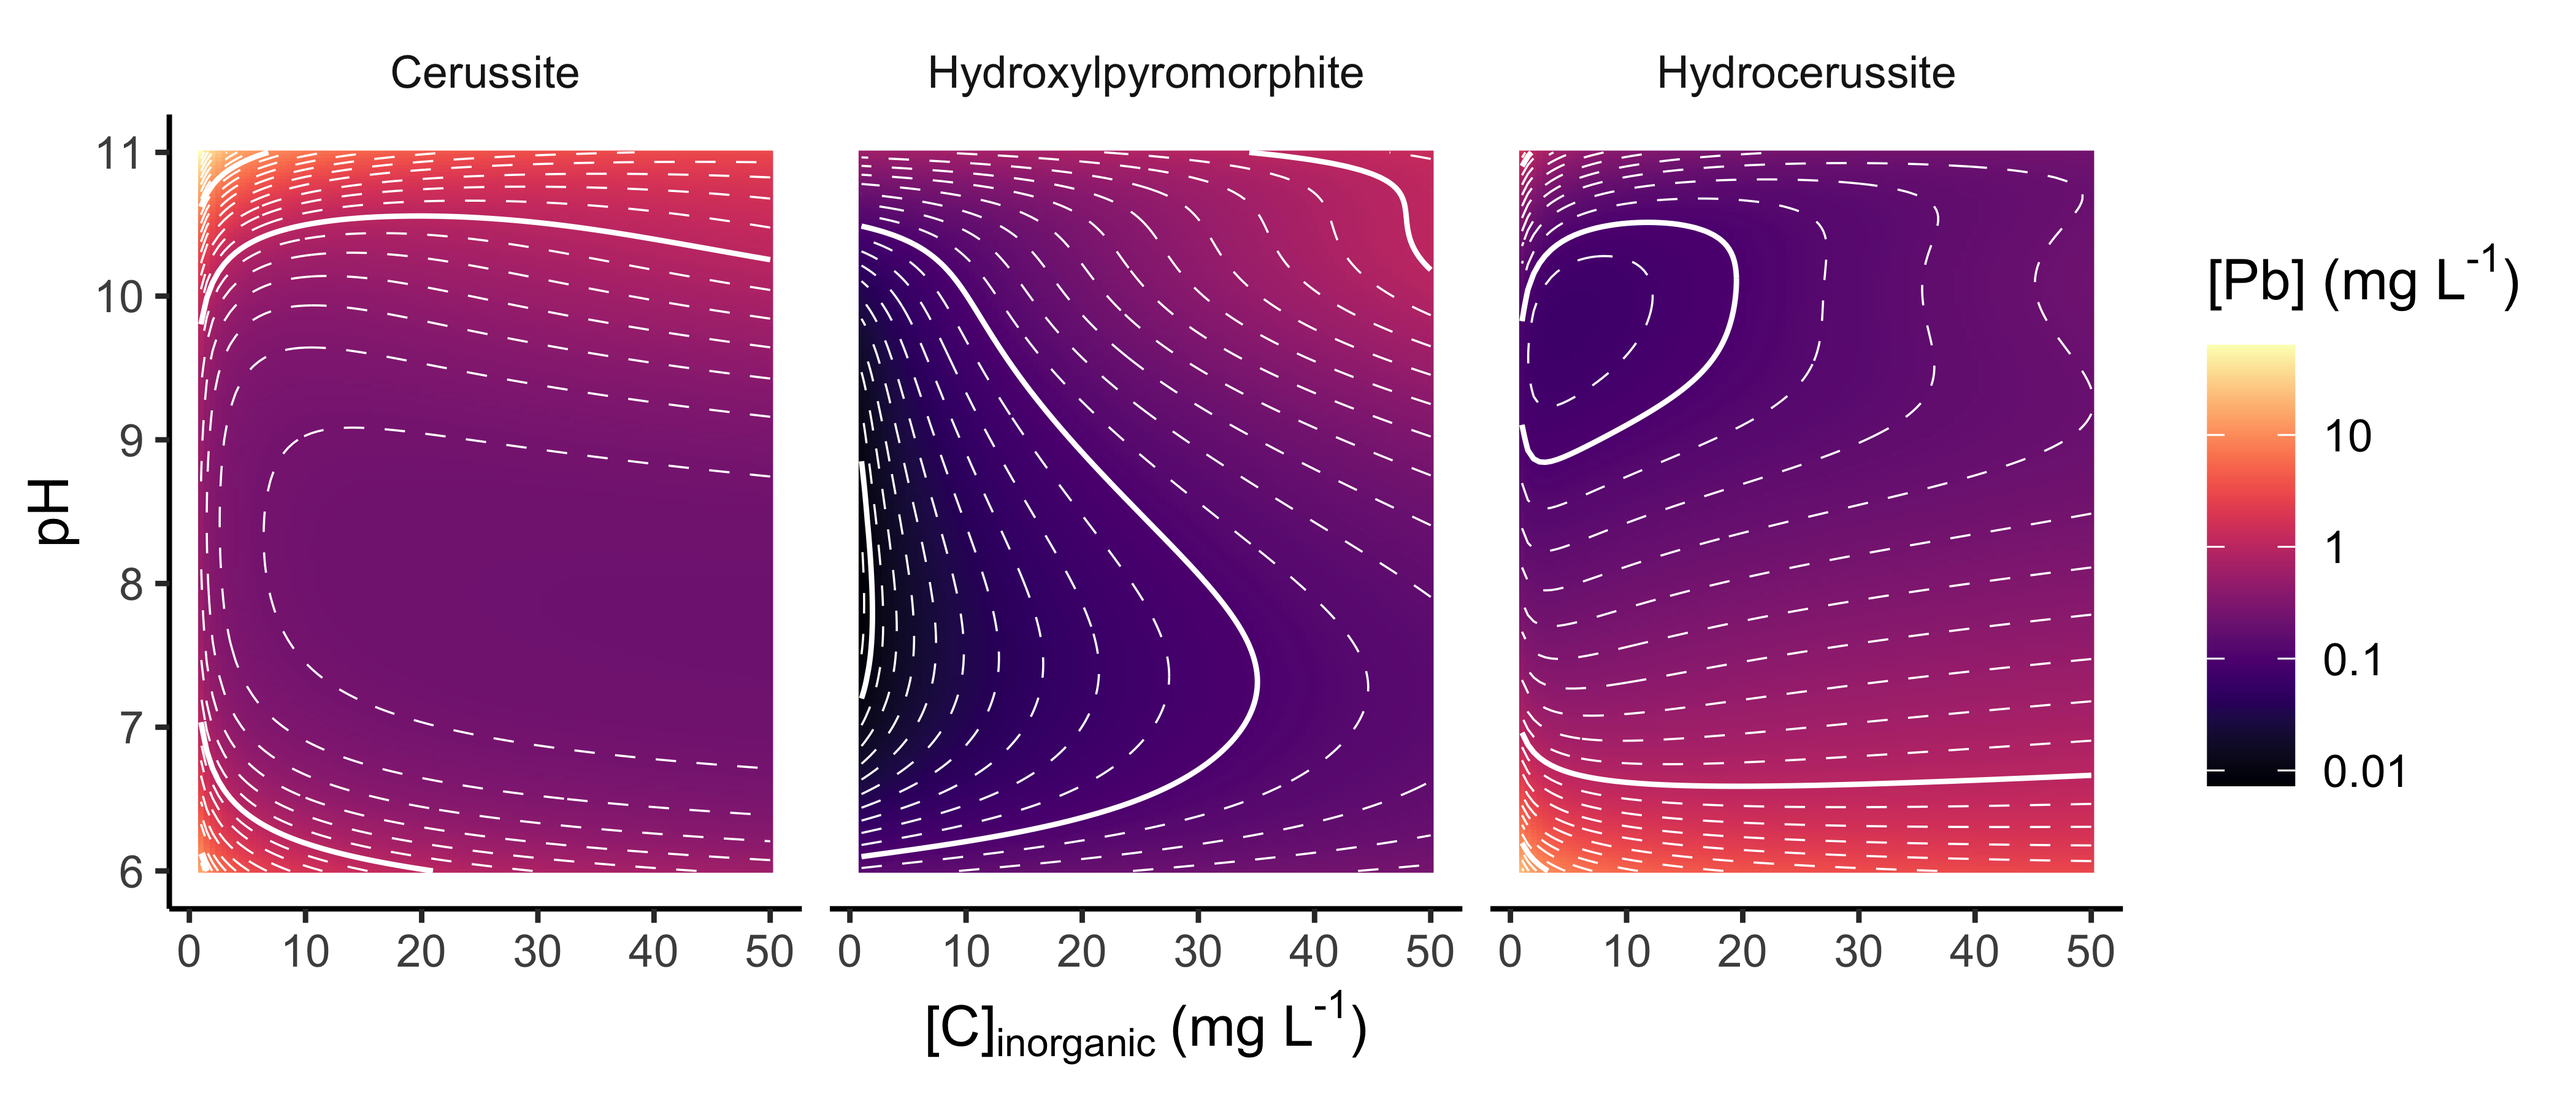
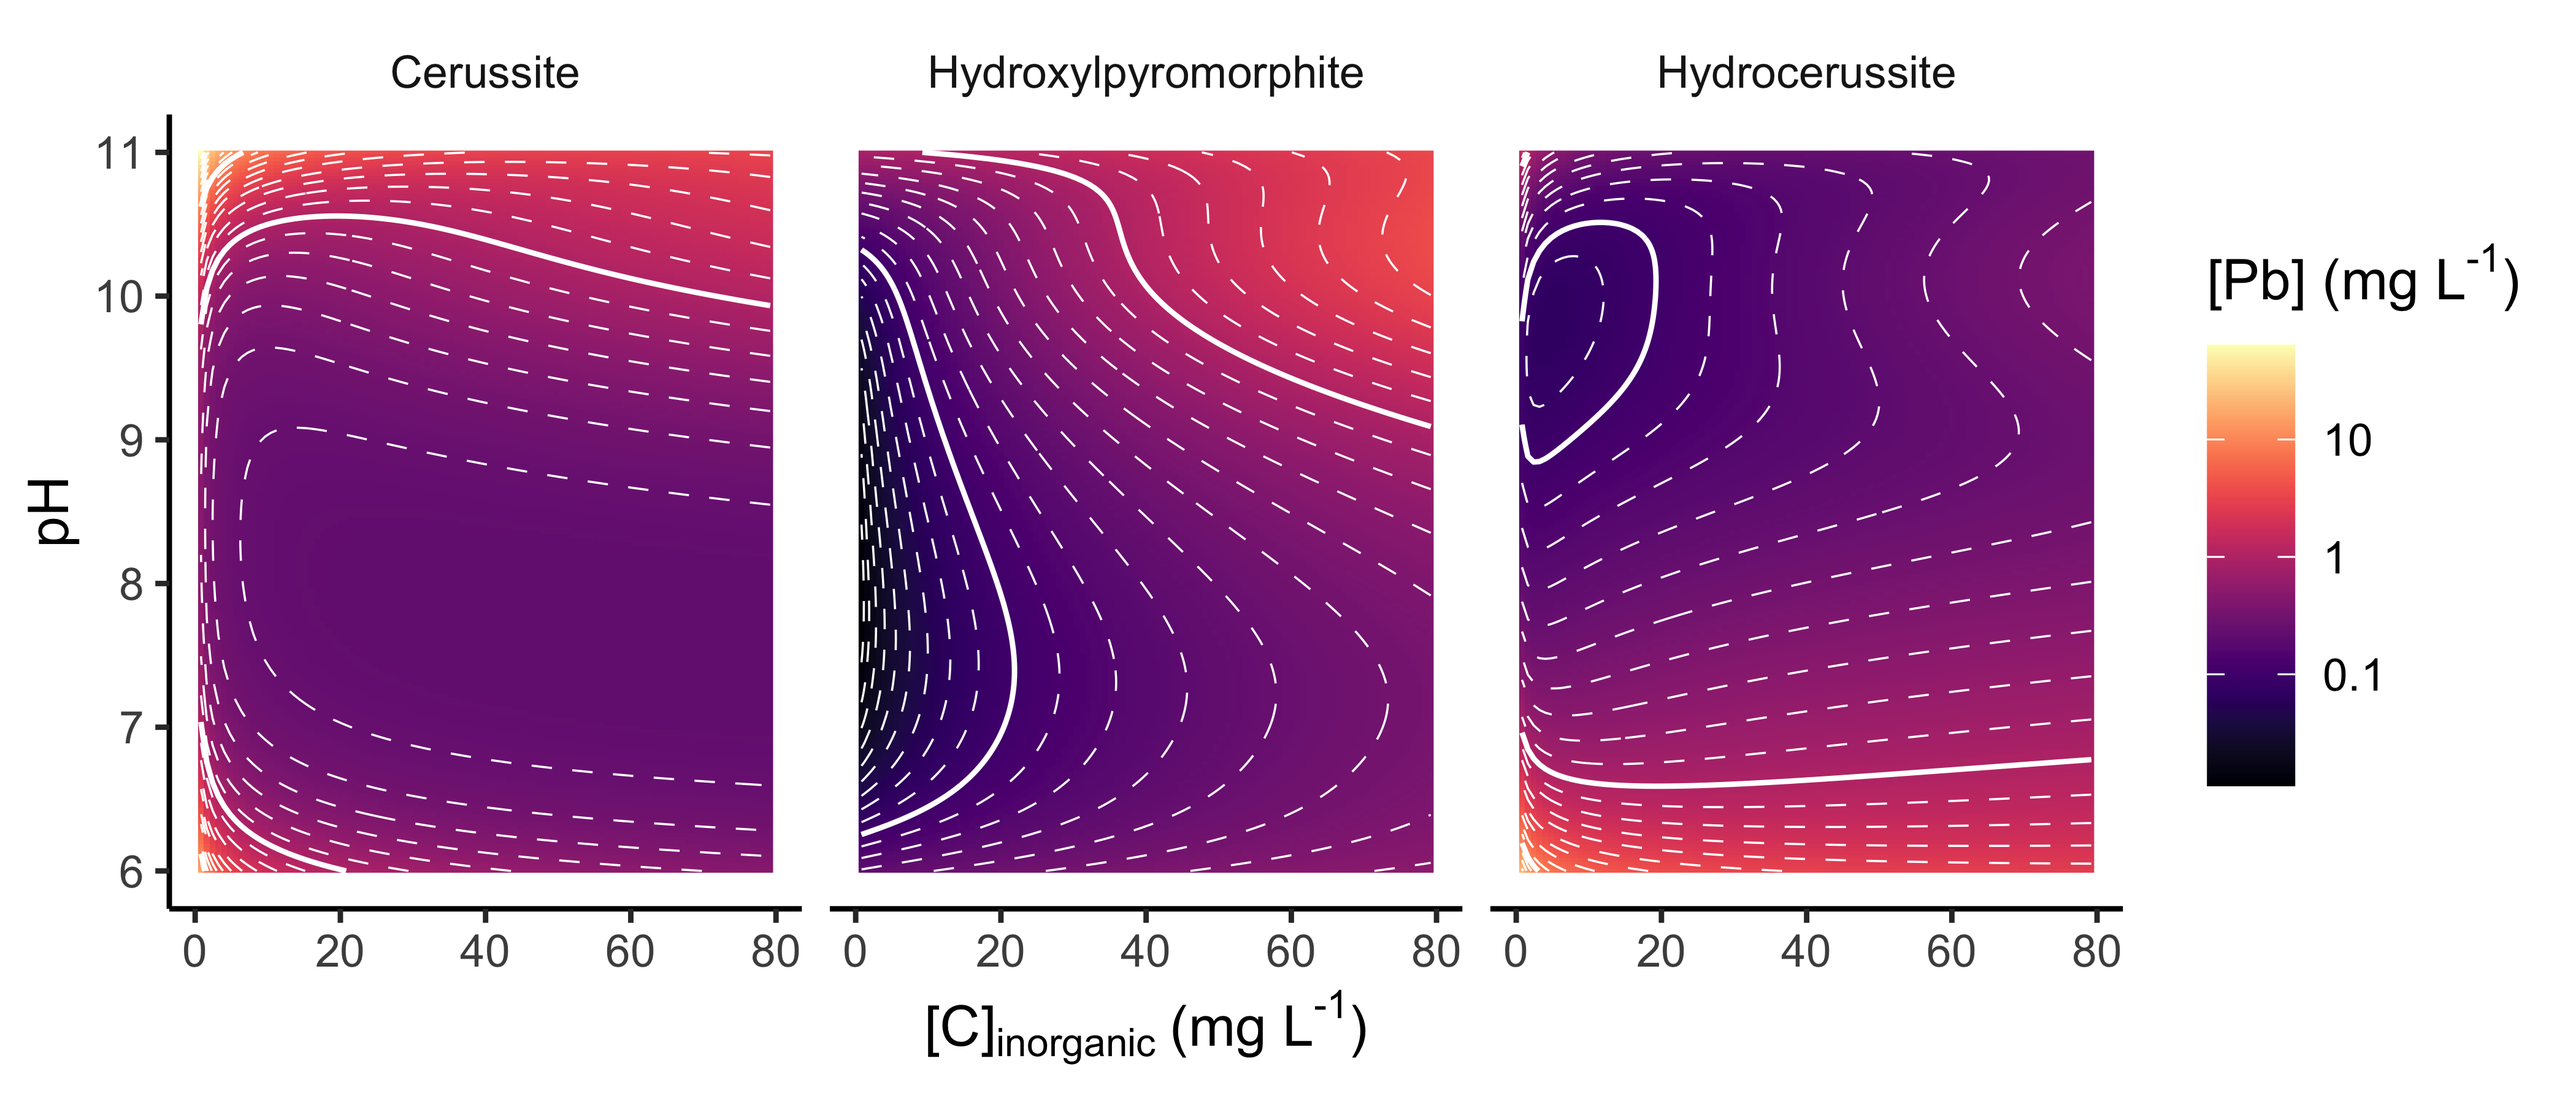
readme

diff --git a/README.md b/README.md
@@ -41,12 +41,13 @@ values and dissolved inorganic carbon concentrations. N.B., evaluate on
 a smaller grid to speed this up\!
 
 ``` r
+dic_increment_cu <- 1.5
 solutions_cu <- list("Cu(OH)2", "Tenorite", "Malachite") %>%
   set_names() %>%
   map_dfr(
     ~cu_sol(
       ph = seq(6, 11, by = .025),
-      dic = seq(1, 150, by = .5),
+      dic = seq(1, 150, by = dic_increment_cu),
       phase = .x
     ),
     .id = "phase"
@@ -60,7 +61,7 @@ the following code generates).
 solutions_cu %>% 
   mutate(
     log10_cu_ppb = log10(cu_ppb),
-    dic_ppm = plyr::round_any(dic_ppm, .5)
+    dic_ppm = plyr::round_any(dic_ppm, dic_increment_cu)
   ) %>% 
   ggplot(aes(x = dic_ppm, y = pH)) + 
   facet_wrap(vars(phase)) + 
@@ -71,25 +72,23 @@ solutions_cu %>%
 
 <img src="man/figures/README-cu-plot-1.png" width="100%" />
 
-Use `pb_sol()` to do the same for lead.
+Use `pb_sol()` to do the same for lead. The helper function
+`calculate_dic()` may be useful for converting alkalinity to dissolved
+inorganic carbon.
 
 ``` r
-solutions_pb <- tibble(
-  phase = c("Cerussite", "Hydcerussite", "Hxypyromorphite"),
-  phosphate = c(0, 0, 0.33)
-) %>%
-  mutate(
-    data = map2(
-      phase, phosphate,
-      ~ pb_sol(
-          ph = seq(6, 11, by = .025),
-          dic = seq(1, 50, by = .5),
-          phosphate = .y,
-          phase = .x
-      )
-    )
-  ) %>% 
-  unnest(data)
+dic_increment_pb <- .8
+solutions_pb <- list("Cerussite", "Hydcerussite", "Hxypyromorphite") %>%
+  set_names() %>%
+  map_dfr(
+    ~ pb_sol(
+      ph = seq(6, 11, by = .025),
+      dic = seq(1, 80, by = dic_increment_pb),
+      phosphate = .16,
+      phase = .x
+    ),
+    .id = "phase"
+  )
 ```
 
 Plot the data:
@@ -98,7 +97,7 @@ Plot the data:
 solutions_pb %>% 
   mutate(
     log10_pb_ppb = log10(pb_ppb),
-    dic_ppm = plyr::round_any(dic_ppm, .5)
+    dic_ppm = plyr::round_any(dic_ppm, dic_increment_pb)
   ) %>% 
   ggplot(aes(x = dic_ppm, y = pH)) + 
   facet_wrap(vars(phase)) + 
@@ -109,8 +108,12 @@ solutions_pb %>%
 
 <img src="man/figures/README-pb-plot-1.png" width="100%" />
 
-The helper function `calculate_dic()` may be useful for converting
-alkalinity to dissolved inorganic carbon.
+Combining the information in the previous two plots, we can generate
+prediction surfaces for equilibrium lead and copper solubility that are
+quite close to those presented in literature, specifically Figure 7 in
+Schock et al. (1995) and Figure 4-18 in Schock et al. (1996).
+
+<img src="man/figures/README-combined-1.png" width="100%" />
 
 # References
 
